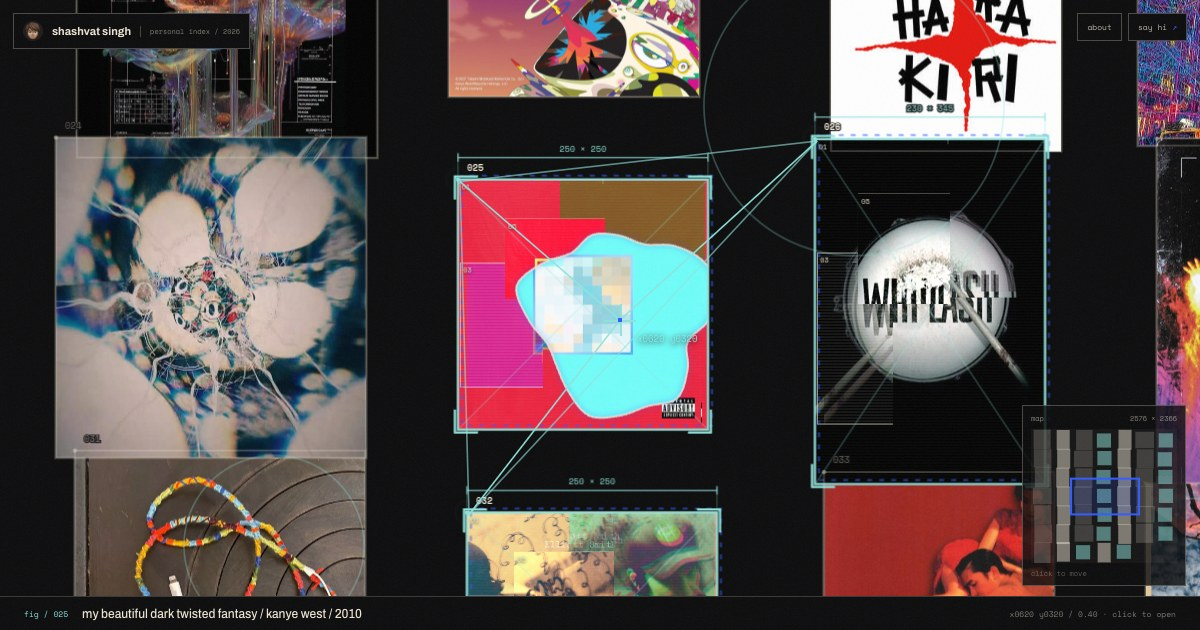
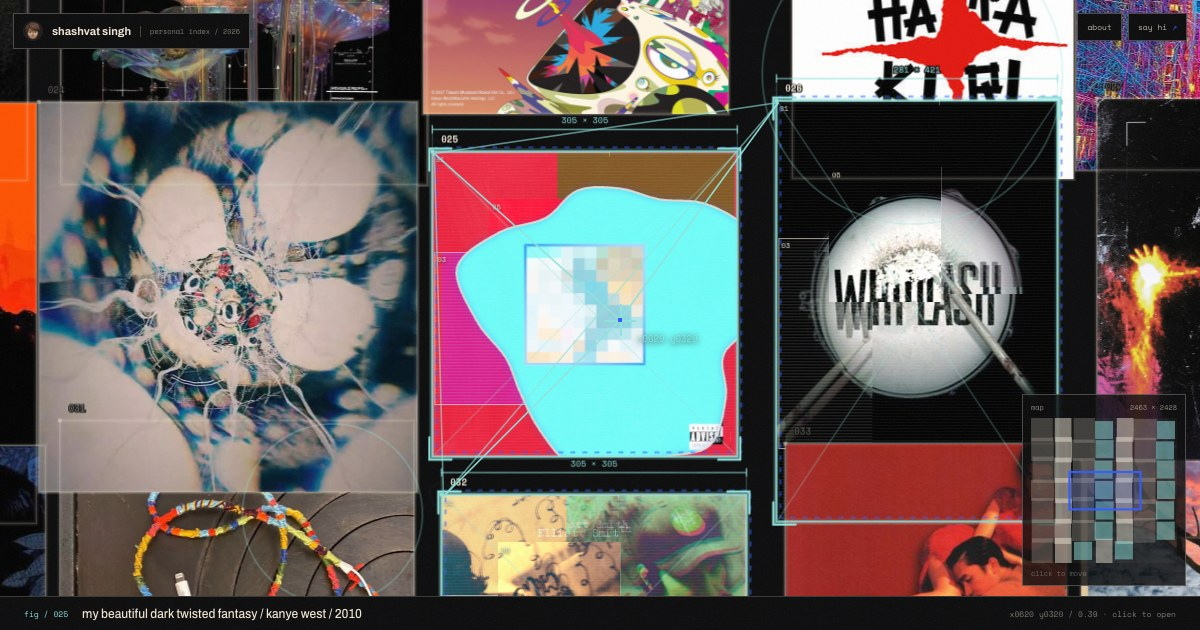
Tighten grid, scale cards, enlarge blob and flicker multi-stroke edges

diff --git a/script.js b/script.js
@@ -2,9 +2,9 @@
 
 (() => {
   const NS = "http://www.w3.org/2000/svg";
-  const MAP_H = 92;
-  const WORLD_W = 2576;
-  const WORLD_H = 2366;
+  const MAP_H = 99;
+  const WORLD_W = 2463;
+  const WORLD_H = 2428;
 
   const rawItems = [
     { src: "pin-01", label: "pinterest feed / 01", alt: "green tree swirling into a spiral", x: 40, y: 60, w: 280, h: 380, r: -2 },
@@ -68,9 +68,10 @@
   const items = pattern.map((t) => queues[t].shift()).filter(Boolean);
 
   const COLS = 7;
-  const CELL_W = 360;
-  const CELL_H = 330;
-  const MARGIN = 28;
+  const CELL_W = 345;
+  const CELL_H = 340;
+  const MARGIN = 24;
+  const SCALE = 1.22;
   let col = 0;
   let row = 0;
   items.forEach((it, i) => {
@@ -90,6 +91,8 @@
       ];
       [it.w, it.h] = variants[i % variants.length];
     }
+    it.w = Math.round(it.w * SCALE);
+    it.h = Math.round(it.h * SCALE);
     const jx = ((i * 37) % 25) - 12;
     const jy = ((i * 53) % 23) - 11;
     it.x = MARGIN + col * CELL_W + (CELL_W - it.w) / 2 + jx;
@@ -282,6 +285,8 @@
       unit.append(full);
       unit.append(
         make("rect", { class: "frame", x: -it.w / 2, y: -it.h / 2, width: it.w, height: it.h }),
+        make("rect", { class: "frame frame-echo frame-echo--a", x: -it.w / 2 - 2, y: -it.h / 2 - 2, width: it.w + 4, height: it.h + 4 }),
+        make("rect", { class: "frame frame-echo frame-echo--b", x: -it.w / 2 + 2, y: -it.h / 2 + 2, width: it.w - 4, height: it.h - 4 }),
         make("circle", { class: "anchor-ring", cx: -it.w / 2, cy: -it.h / 2, r: 5.5 }),
         make("circle", { class: "anchor-dot", cx: -it.w / 2, cy: -it.h / 2, r: 2.1 })
       );
@@ -361,9 +366,23 @@
     outline.setAttribute("stroke", "rgba(237,228,211,.85)");
     outline.setAttribute("stroke-width", "2");
     outline.setAttribute("vector-effect", "non-scaling-stroke");
-    svg.append(outline);
+    const outlineB = document.createElementNS(NS, "path");
+    outlineB.setAttribute("class", "neg-outline neg-outline--b");
+    outlineB.setAttribute("fill", "none");
+    outlineB.setAttribute("stroke", "rgba(237,228,211,.55)");
+    outlineB.setAttribute("stroke-width", "1");
+    outlineB.setAttribute("transform", "translate(1.6 0)");
+    outlineB.setAttribute("vector-effect", "non-scaling-stroke");
+    const outlineC = document.createElementNS(NS, "path");
+    outlineC.setAttribute("class", "neg-outline neg-outline--c");
+    outlineC.setAttribute("fill", "none");
+    outlineC.setAttribute("stroke", "rgba(47,91,255,.65)");
+    outlineC.setAttribute("stroke-width", "1");
+    outlineC.setAttribute("transform", "translate(-1.6 0.9)");
+    outlineC.setAttribute("vector-effect", "non-scaling-stroke");
+    svg.append(outline, outlineB, outlineC);
     it._fig.appendChild(svg);
-    it._neg = { clipShape, outline };
+    it._neg = { clipShape, outline, outlineB, outlineC };
   };
 
   const blobPath = (cx, cy, R, tt) => {
@@ -561,7 +580,7 @@
         const dx = Math.max(left - pointer.x, 0, pointer.x - (left + it.w));
         const dy = Math.max(top - pointer.y, 0, pointer.y - (top + it.h));
         const dist = Math.hypot(dx, dy);
-        if (dist < 320) targets.push({ it, i, left, top, dist });
+        if (dist < 360) targets.push({ it, i, left, top, dist });
       });
       targets.sort((a, b) => a.dist - b.dist);
       targets.slice(0, 5).forEach(({ it, i, left, top, dist }) => {
@@ -570,8 +589,8 @@
         const ly = pointer.y - top;
         const R =
           Math.min(it.w, it.h) *
-          0.36 *
-          (0.55 + 0.45 * Math.max(0, 1 - dist / 320));
+          0.46 *
+          (0.55 + 0.45 * Math.max(0, 1 - dist / 360));
         if (!it._neg) return;
         const d = blobPath(lx, ly, R, tt);
         it._neg.clipShape.setAttribute("d", d);

diff --git a/styles.css b/styles.css
@@ -176,6 +176,13 @@ svg {
 .piece.is-blob .neg-svg {
   opacity: 1;
 }
+.neg-outline--b,
+.neg-outline--c {
+  animation: edge-flicker 1.25s steps(1, end) infinite;
+}
+.neg-outline--c {
+  animation-delay: 0.31s;
+}
 .neg-outline {
   filter: drop-shadow(0 0 3px rgba(47, 91, 255, 0.65));
 }
@@ -305,6 +312,37 @@ svg {
   stroke: var(--chlorine);
   stroke-opacity: 0.95;
   stroke-width: 2.2;
+  animation: edge-flicker 1.7s steps(1, end) infinite;
+}
+.frame-echo {
+  fill: none;
+  stroke-width: 1;
+  vector-effect: non-scaling-stroke;
+  opacity: 0.3;
+}
+.frame-echo--a {
+  stroke: var(--bone);
+  stroke-opacity: 0.55;
+}
+.frame-echo--b {
+  stroke: var(--chlorine);
+  stroke-opacity: 0.7;
+}
+.unit.is-near .frame-echo {
+  animation: edge-flicker 1.15s steps(1, end) infinite;
+}
+.unit.is-near .frame-echo--b {
+  animation-delay: 0.37s;
+}
+@keyframes edge-flicker {
+  0%, 100% { opacity: 0.12; }
+  12% { opacity: 0.9; }
+  18% { opacity: 0.2; }
+  33% { opacity: 0.95; }
+  40% { opacity: 0.25; }
+  62% { opacity: 0.85; }
+  70% { opacity: 0.2; }
+  88% { opacity: 0.9; }
 }
 .unit .full-art {
   opacity: 0;

diff --git a/index.html b/index.html
@@ -67,8 +67,8 @@
         </header>
 
         <div class="map" data-map>
-          <div class="map__head"><span>map</span><span>2576 × 2366</span></div>
-          <svg class="map__svg" viewBox="0 0 100 92" preserveAspectRatio="none" data-map-svg>
+          <div class="map__head"><span>map</span><span>2463 × 2428</span></div>
+          <svg class="map__svg" viewBox="0 0 100 99" preserveAspectRatio="none" data-map-svg>
             <g data-map-dots></g>
             <rect class="map__view" data-map-view x="0" y="0" width="0" height="0"></rect>
           </svg>
